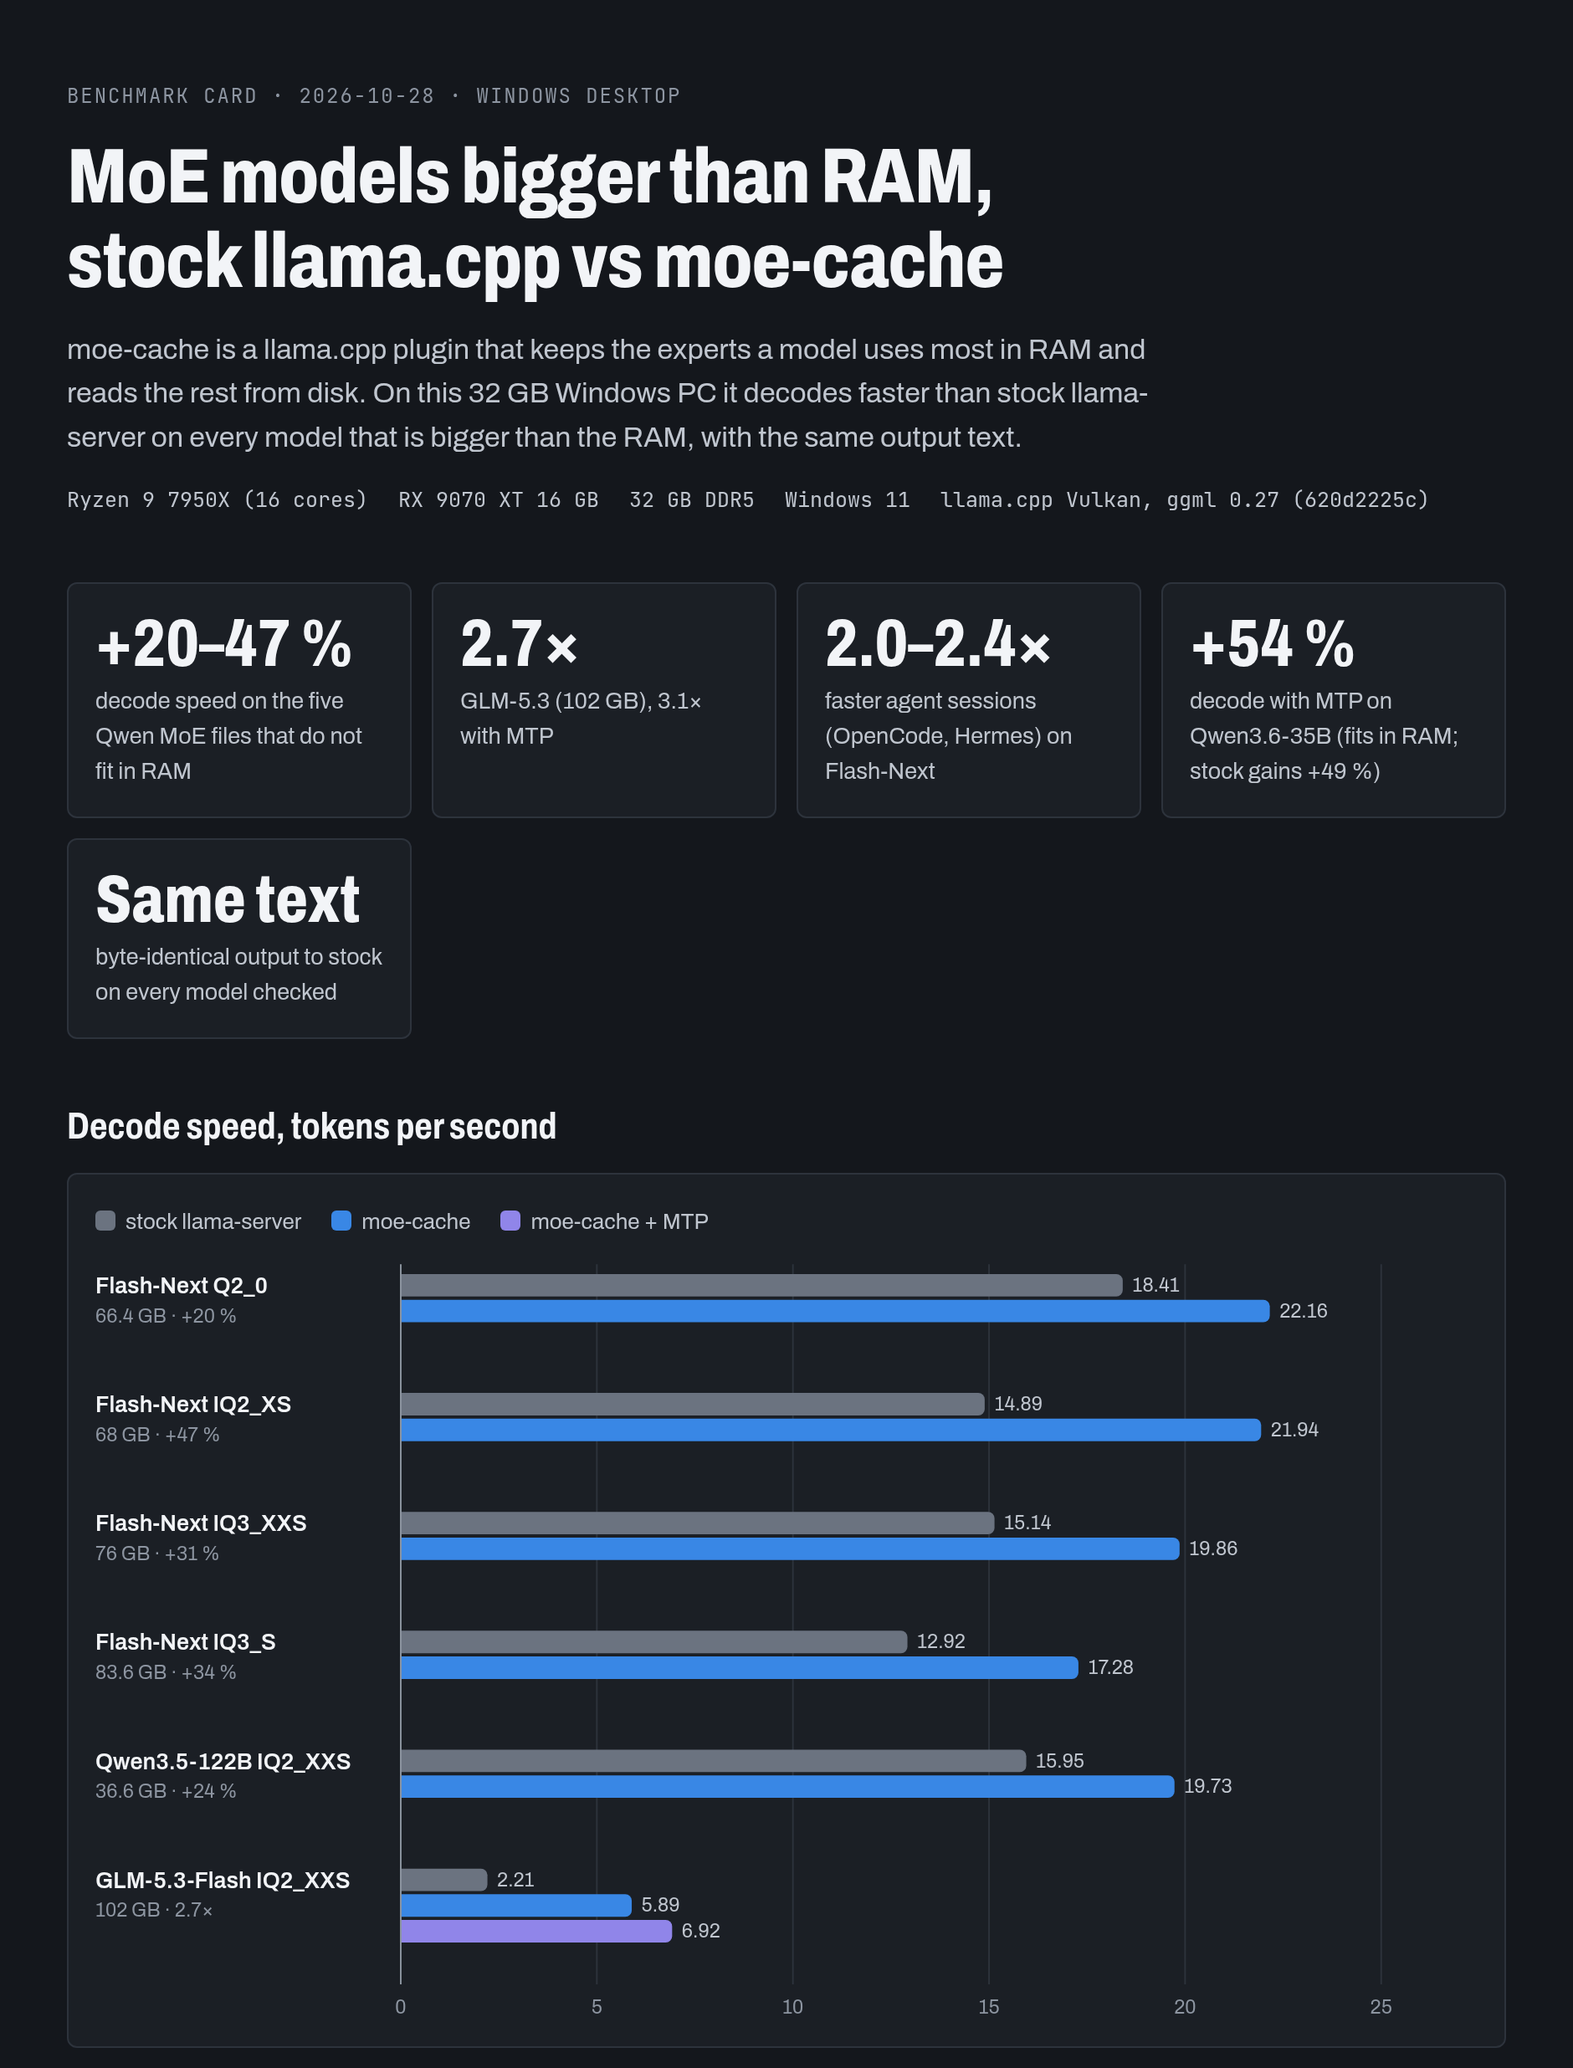
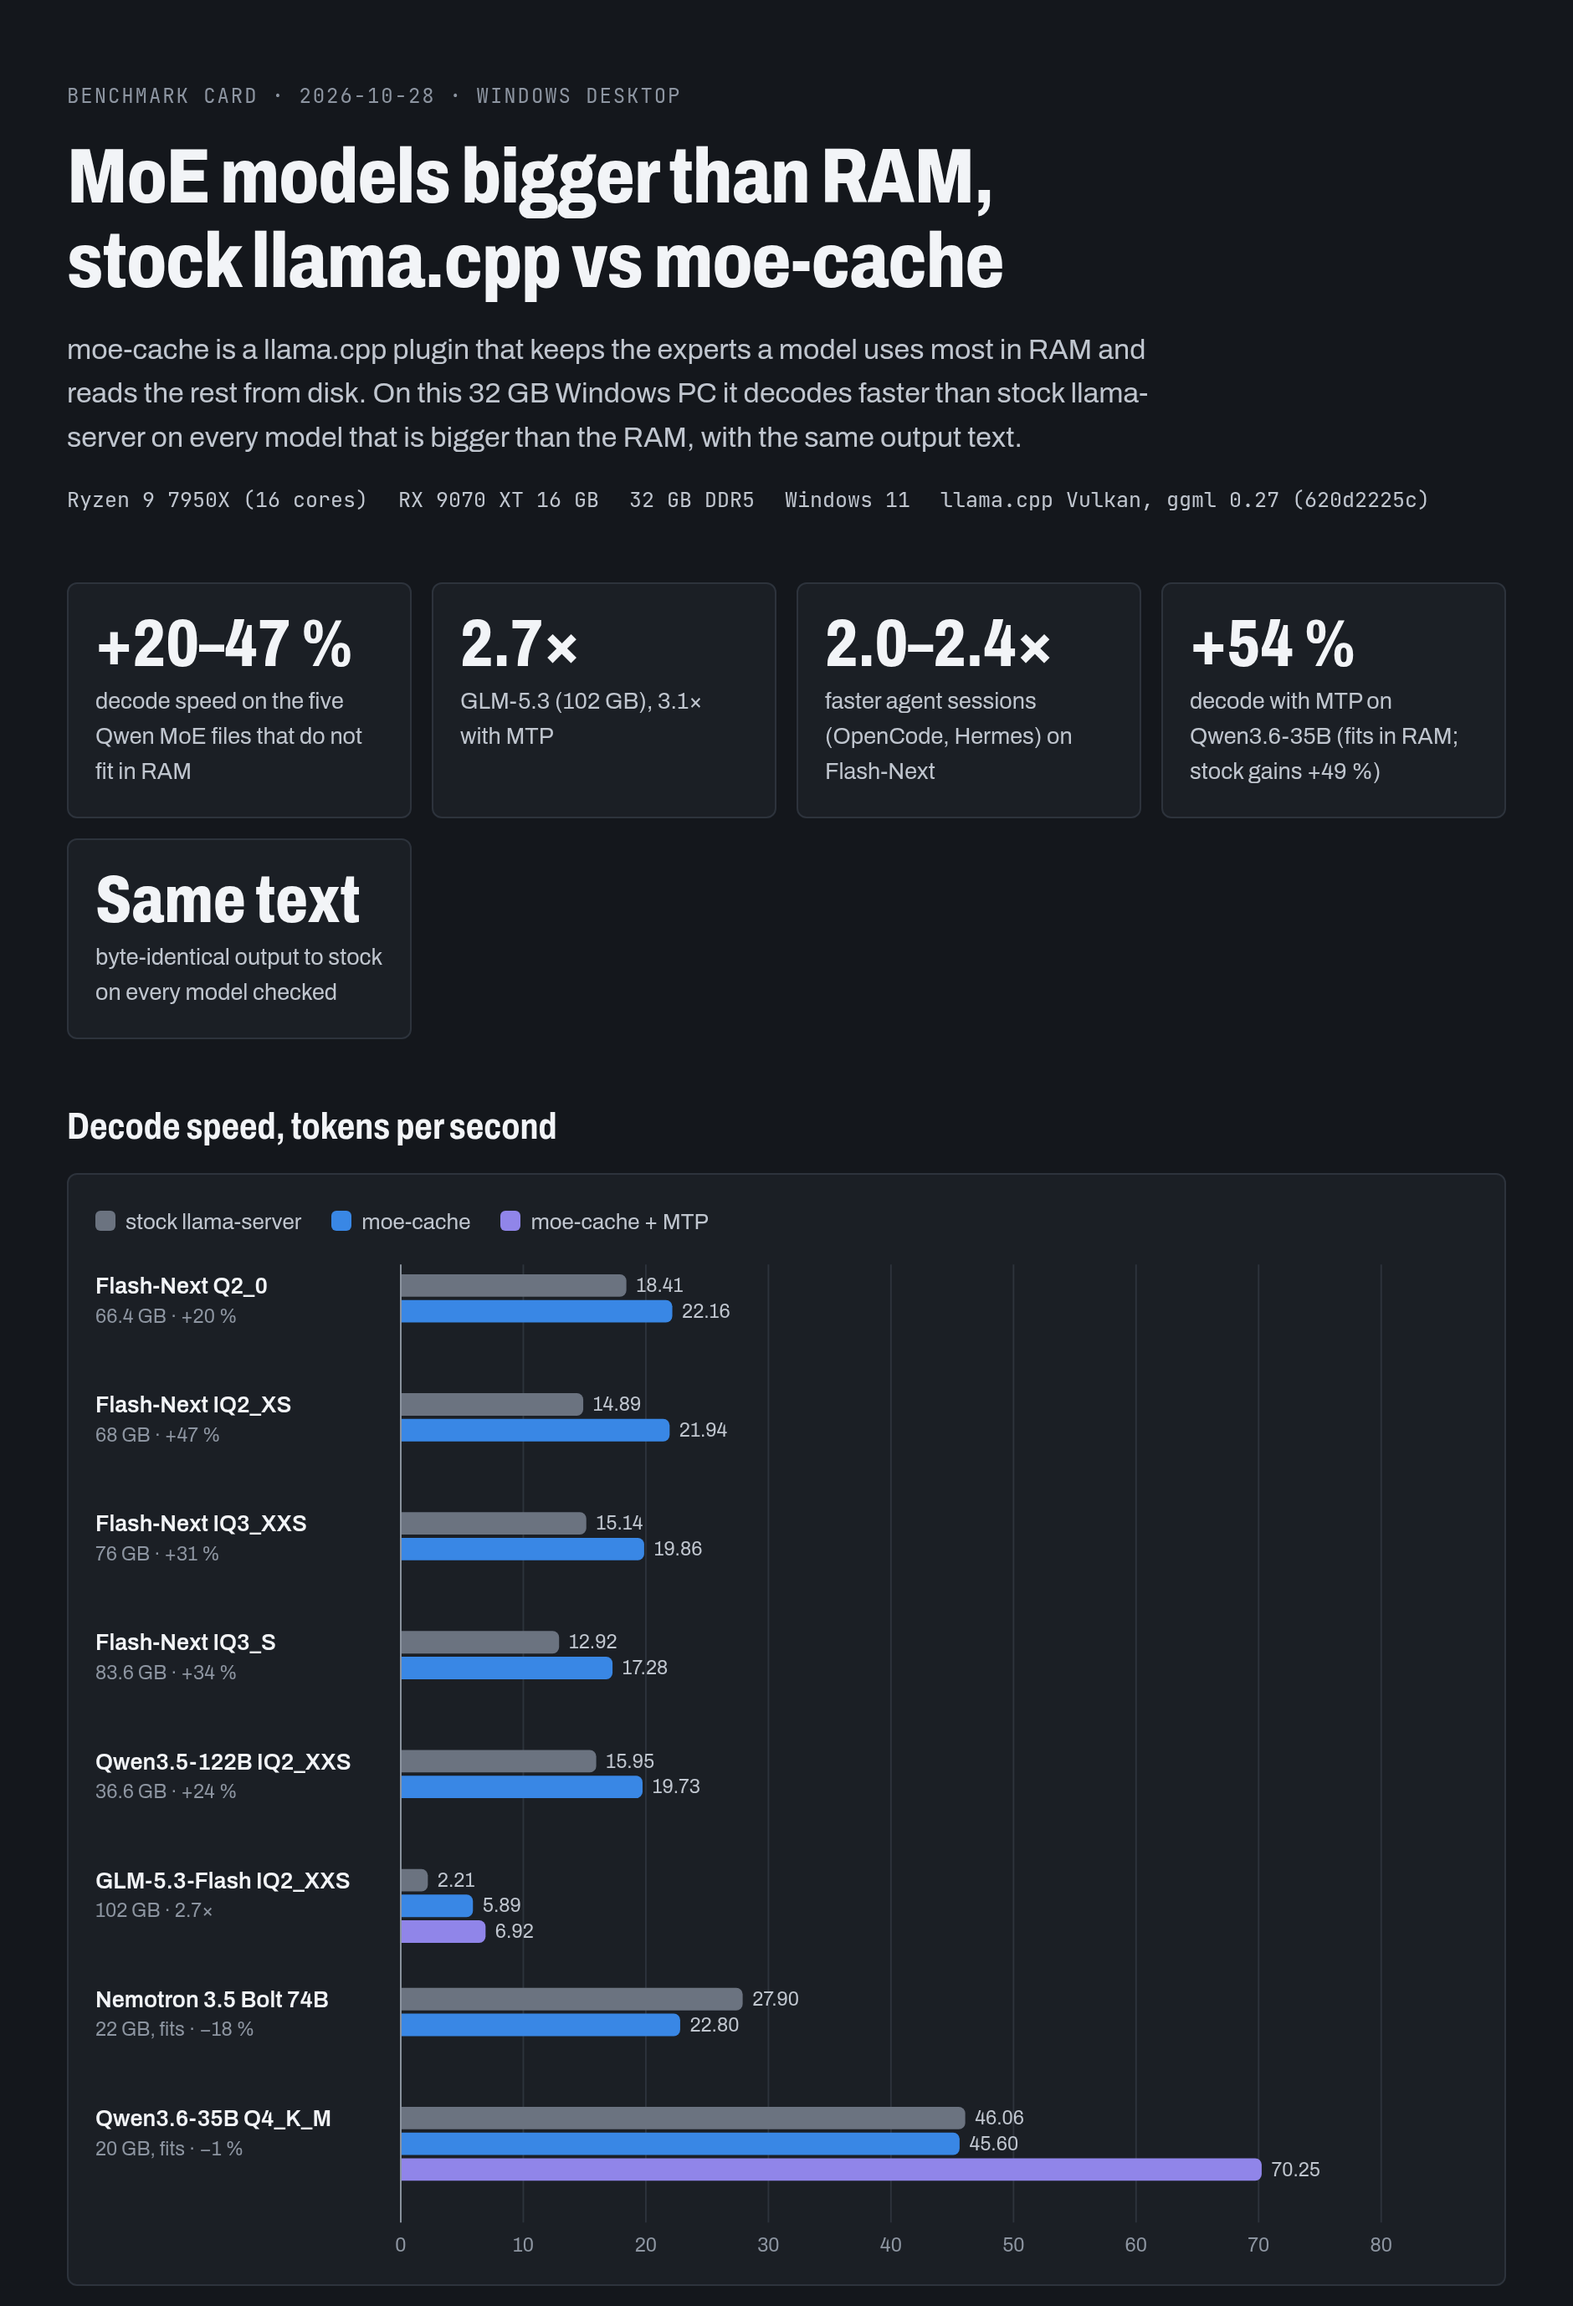
Card chart and table: every measured PC model, adding Nemotron 3.5 Bolt and Qwen3.6-35B (both fit in RAM, moe-cache forced, MTP bar for Qwen3.6); the axis scales to the fastest bar; a slower result reads -N %

diff --git a/docs/benchmark_card.html b/docs/benchmark_card.html
@@ -110,6 +110,9 @@ footer { color: var(--ink-3); font-size: 13px; border-top: 1px solid var(--rule)
           <tr><td>Qwen3.5-122B UD-IQ2_XXS<span class="sub">36.6 GB, drive D:, re-measured 2026-10-28; replaces 13.88 vs 16.13 (+16 %), which ran during a slowdown of the whole PC</span></td><td class="n">12</td><td class="n">15.95</td><td class="n">19.73</td><td class="n up">+24 %</td></tr>
           <tr><td>GLM-5.3-Flash UD-IQ2_XXS<span class="sub">102 GB; moe-cache: ABBA on drive D:, launcher defaults (RESULTS 62); stock: one run on drive C:, not yet re-run on D:</span></td><td class="n">3</td><td class="n">2.21</td><td class="n">5.89</td><td class="n up">2.7×</td></tr>
           <tr><td>GLM-5.3-Flash, moe-cache with <code>--mtp</code><span class="sub">one run; drafts accepted 61–100 %</span></td><td class="n">3</td><td class="n">2.21</td><td class="n">6.92</td><td class="n up">3.1×</td></tr>
+          <tr><td>Nemotron 3.5 Bolt 74B-A9B<span class="sub">22.0 GB, <b>fits in RAM</b>: the launcher runs stock for it; moe-cache forced here to compare (one run each)</span></td><td class="n">–</td><td class="n">27.9</td><td class="n">22.8</td><td class="n">−18 %</td></tr>
+          <tr><td>Qwen3.6-35B-A3B Q4_K_M<span class="sub">20 GB, <b>fits in RAM</b>: stock is the right choice; moe-cache forced (two runs each, RESULTS 58)</span></td><td class="n">–</td><td class="n">46.06</td><td class="n">45.60</td><td class="n">−1 %</td></tr>
+          <tr><td>Qwen3.6-35B, moe-cache with MTP<span class="sub">stock with MTP: 68.6 (+49 %); about 78 % of drafts accepted</span></td><td class="n">–</td><td class="n">46.06</td><td class="n">70.25</td><td class="n up">+53 %</td></tr>
         </tbody>
       </table>
     </div>
@@ -306,16 +309,21 @@ footer { color: var(--ink-3); font-size: 13px; border-top: 1px solid var(--rule)
     { m: "Flash-Next IQ3_XXS", s: "76 GB", stock: 15.14, mc: 19.86 },
     { m: "Flash-Next IQ3_S", s: "83.6 GB", stock: 12.92, mc: 17.28 },
     { m: "Qwen3.5-122B IQ2_XXS", s: "36.6 GB", stock: 15.95, mc: 19.73 },
-    { m: "GLM-5.3-Flash IQ2_XXS", s: "102 GB", stock: 2.21, mc: 5.89, mtp: 6.92 }
+    { m: "GLM-5.3-Flash IQ2_XXS", s: "102 GB", stock: 2.21, mc: 5.89, mtp: 6.92 },
+    { m: "Nemotron 3.5 Bolt 74B", s: "22 GB, fits", stock: 27.9, mc: 22.8 },
+    { m: "Qwen3.6-35B Q4_K_M", s: "20 GB, fits", stock: 46.06, mc: 45.60, mtp: 70.25 }
   ];
   var NS = "http://www.w3.org/2000/svg", svg = document.getElementById("bars"), tip = document.getElementById("tip"), box = document.getElementById("chart");
-  var W = 860, left = 190, right = 60, top = 8, max = 25, bh = 14, gap = 2;
+  var top_v = Math.max.apply(null, data.map(function (d) { return Math.max(d.stock, d.mc, d.mtp || 0); }));
+  var step = top_v > 40 ? 10 : 5, max = Math.ceil(top_v * 1.05 / step) * step;      // the axis grows with the fastest bar
+  var W = 860, left = 190, right = 60, top = 8, bh = 14, gap = 2;
   var x = function (v) { return left + (W - left - right) * v / max; };
   function el(n, a, txt) { var e = document.createElementNS(NS, n); for (var k in a) e.setAttribute(k, a[k]); if (txt != null) e.textContent = txt; svg.appendChild(e); return e; }
   var rowH = 74, y0 = top;
   var H = top + data.length * rowH + 30;
   svg.setAttribute("viewBox", "0 0 " + W + " " + H);
-  [0, 5, 10, 15, 20, 25].forEach(function (t) {
+  var ticks = []; for (var t0 = 0; t0 <= max; t0 += step) ticks.push(t0);
+  ticks.forEach(function (t) {
     el("line", { x1: x(t), x2: x(t), y1: top, y2: H - 26, stroke: "var(--rule)", "stroke-width": 1 });
     el("text", { x: x(t), y: H - 8, "text-anchor": "middle", "font-size": 12, fill: "var(--ink-3)" }, t);
   });
@@ -337,7 +345,7 @@ footer { color: var(--ink-3); font-size: 13px; border-top: 1px solid var(--rule)
   data.forEach(function (d, i) {
     var y = y0 + i * rowH + 6;
     el("text", { x: 0, y: y + 12, "font-size": 14, "font-weight": 600, fill: "var(--ink)" }, d.m);
-    el("text", { x: 0, y: y + 30, "font-size": 12, fill: "var(--ink-3)" }, d.s + " · " + (d.mc / d.stock >= 1.95 ? (d.mc / d.stock).toFixed(1) + "×" : "+" + Math.round((d.mc / d.stock - 1) * 100) + " %"));
+    el("text", { x: 0, y: y + 30, "font-size": 12, fill: "var(--ink-3)" }, d.s + " · " + (d.mc / d.stock >= 1.95 ? (d.mc / d.stock).toFixed(1) + "×" : (d.mc >= d.stock ? "+" : "−") + Math.abs(Math.round((d.mc / d.stock - 1) * 100)) + " %"));
     bar(y, d.stock, "var(--stock)", d.m + ", stock");
     bar(y + bh + gap, d.mc, "var(--plugin)", d.m + ", moe-cache");
     if (d.mtp) bar(y + 2 * (bh + gap), d.mtp, "var(--mtp)", d.m + ", moe-cache + MTP");
